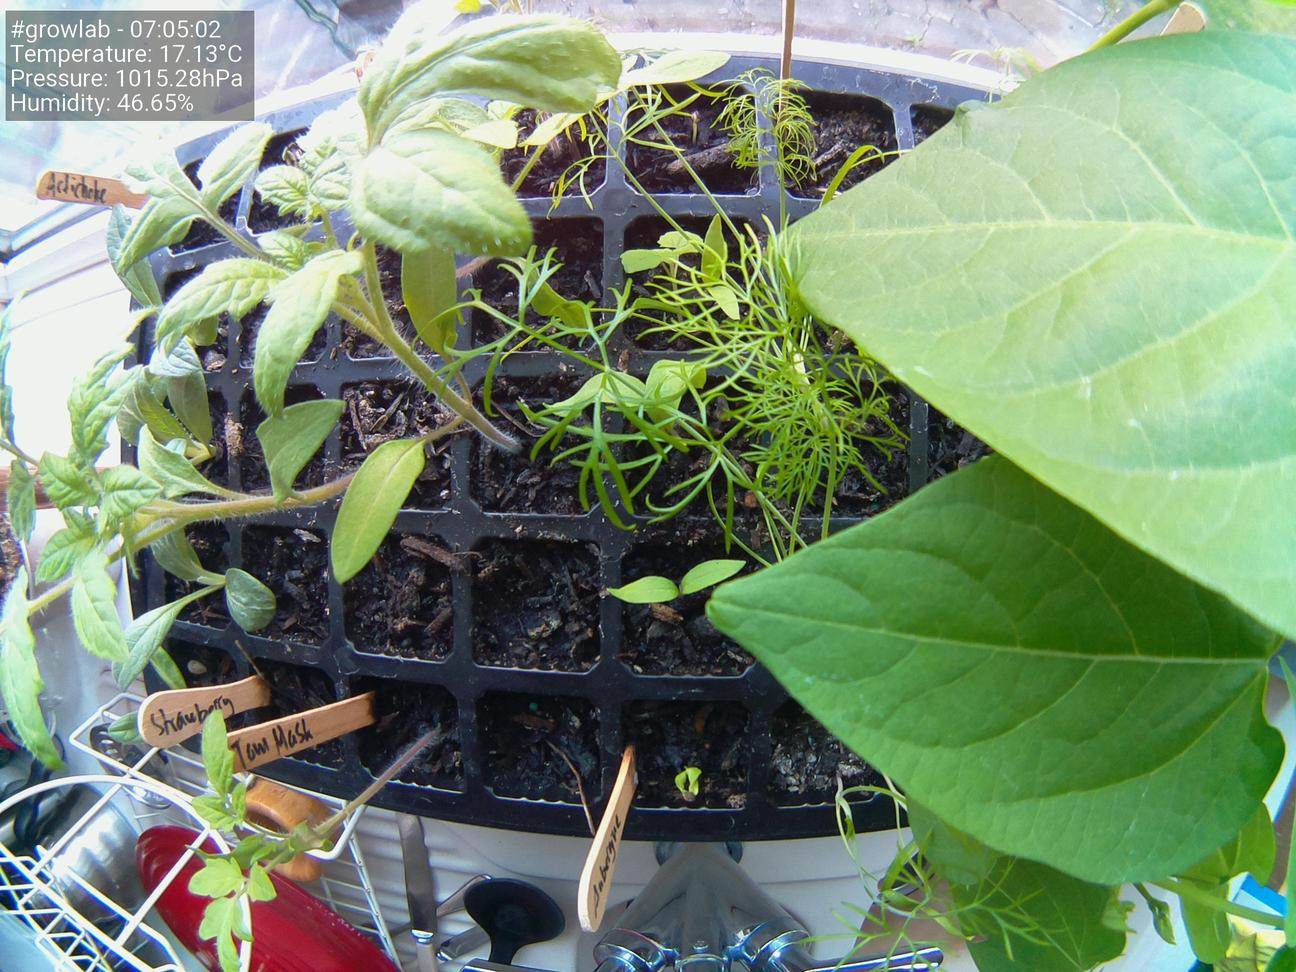
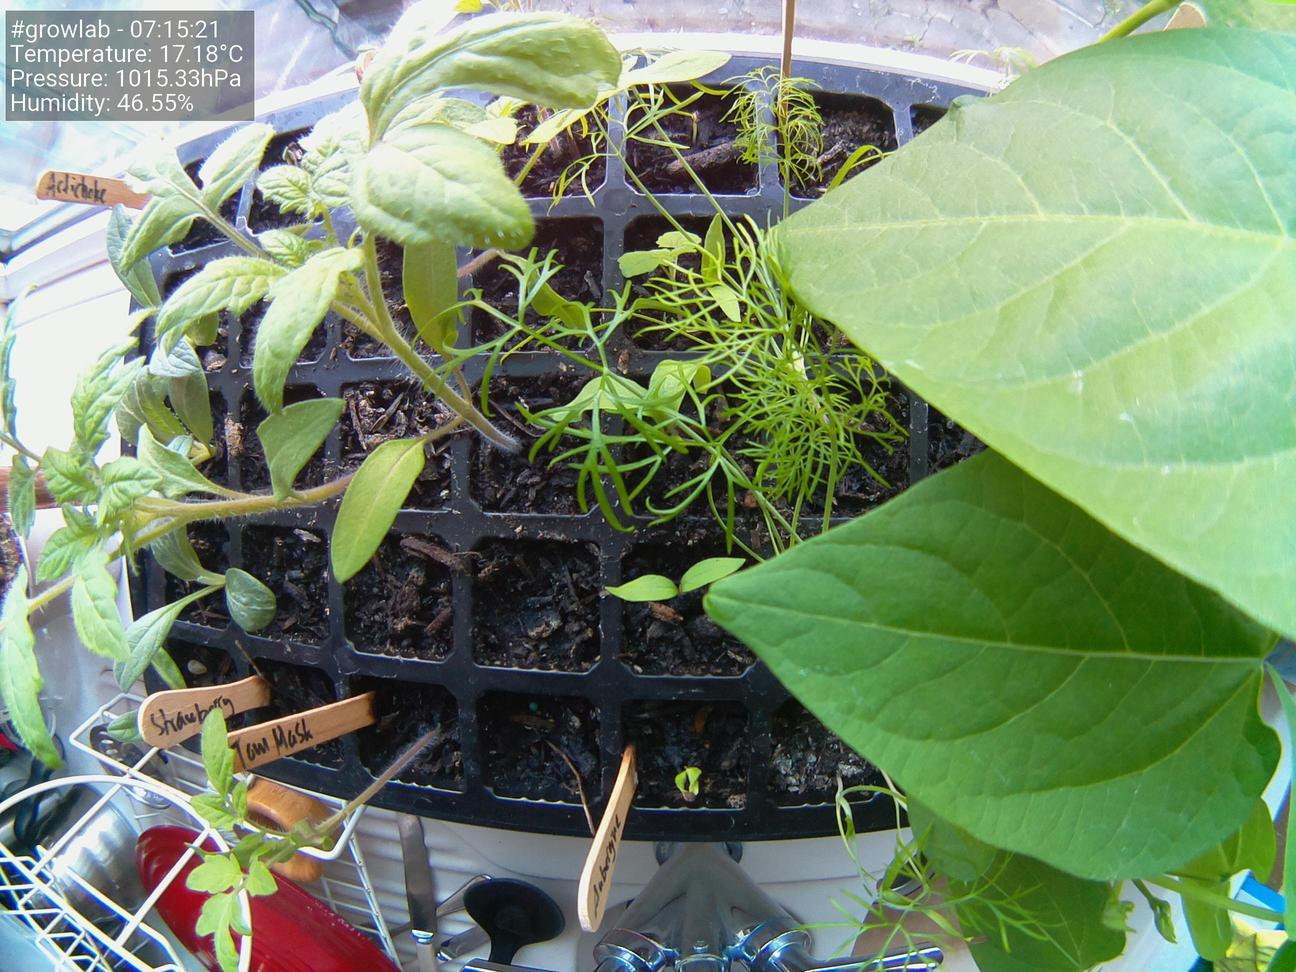
Update images at Fri 30 Apr 07:15:33 BST 2021

diff --git a/docs/index.html b/docs/index.html
@@ -38,19 +38,19 @@
                     <tbody>
                         <tr>
                             <td>Time</td>
-                            <td>07:05:02</td>
+                            <td>07:15:21</td>
                         </tr>
                         <tr>
                             <td>Temperature</td>
-                            <td>17.13°C</td>
+                            <td>17.18°C</td>
                         </tr>
                         <tr>
                             <td>Humidity</td>
-                            <td>46.65%</td>
+                            <td>46.55%</td>
                         </tr>
                         <tr>
                             <td>Pressure</td>
-                            <td>1015.28hPa</td>
+                            <td>1015.33hPa</td>
                         </tr>
                     </tbody>
                 </table>
@@ -58,7 +58,7 @@
 
                 <h5>Latest image</h5>
 		<div style="width: 85%;">
-	                <img class="figure-img img-fluid rounded" src="./preview.jpg?uid=1619762713.651566">
+	                <img class="figure-img img-fluid rounded" src="./preview.jpg?uid=1619763332.8998976">
 		</div>
             </div>
         </div>
